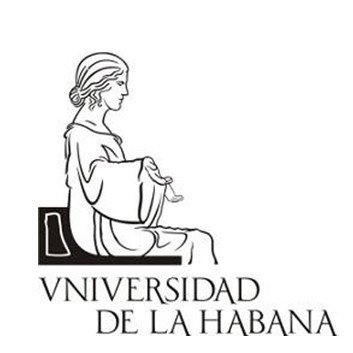
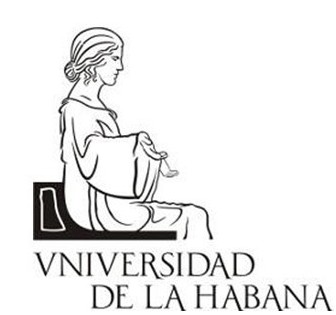
style:

Changed region(s): [[0.0893, 0.0857, 1.0, 1.0]]

diff --git a/style.css b/style.css
@@ -175,7 +175,7 @@ body {
 }
 .img img {
     background: var(--white);
-    width: 40px;
+    width: 30px;
     padding: 3px;
     border-radius: 20px;
     margin-left: 10px;
